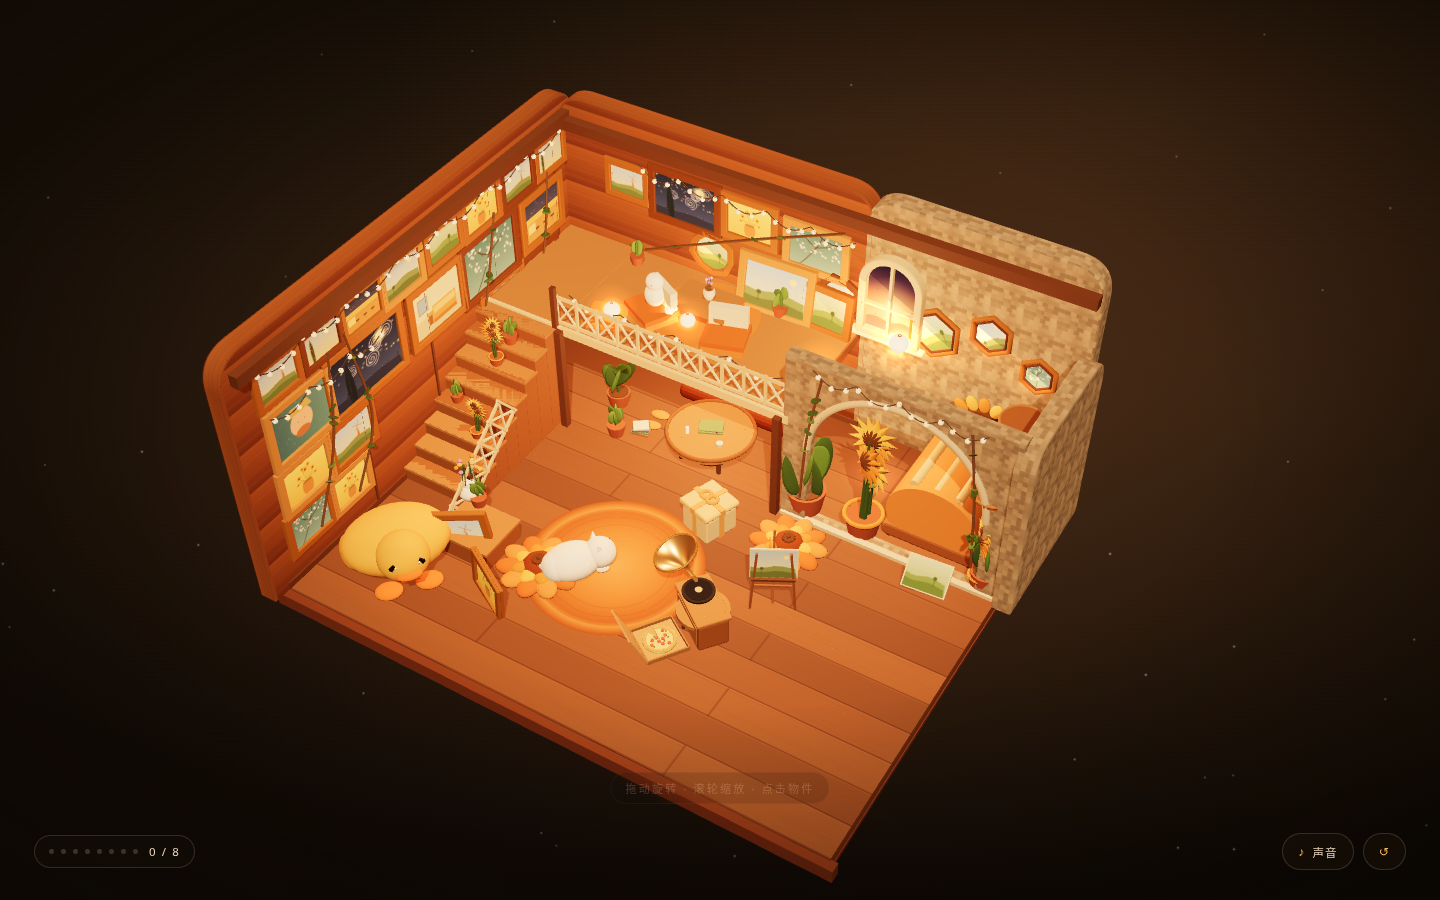
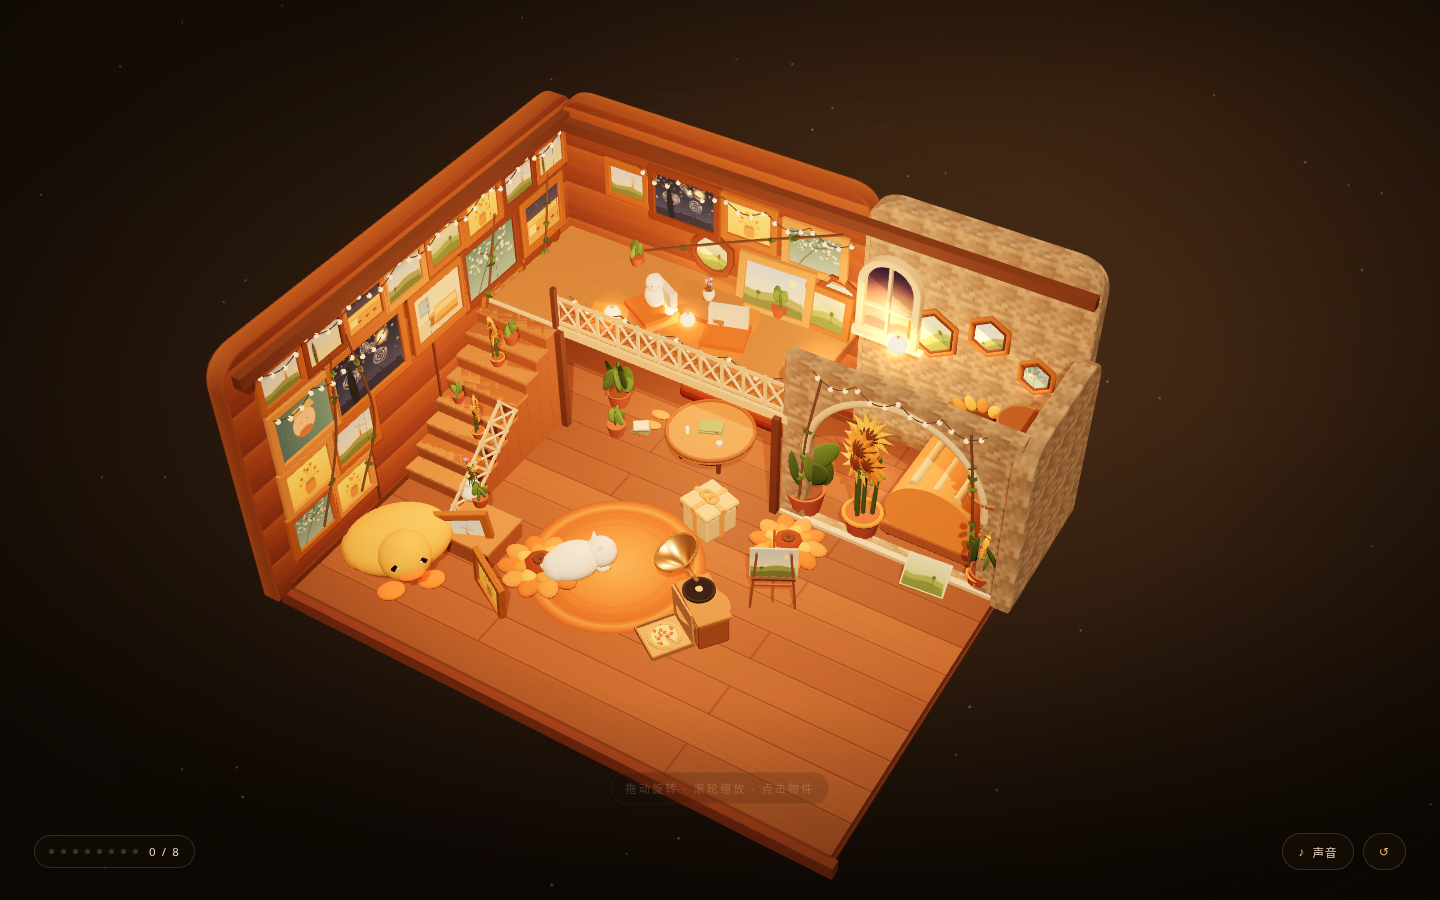
披萨盒开盖改为背靠留声机（转向+贴紧边几+盖子立起倚住机身）

diff --git a/app.js b/app.js
@@ -2149,17 +2149,17 @@
       g.add(bas);
     }
 
-    // 开盖（绕后缘铰链向后翻开）
+    // 开盖（绕后缘铰链向后翻开，立起倚在留声机边几上）
     var hinge = new T.Group();
     hinge.position.set(0, 0.06, -0.4);
     var lid = new T.Mesh(new T.BoxGeometry(0.82, 0.035, 0.8), card);
     lid.position.set(0, 0, 0.4);
     hinge.add(lid);
-    hinge.rotation.x = -1.98;
+    hinge.rotation.x = -1.52;
     g.add(hinge);
 
-    g.position.set(1.02, 0, 2.52);
-    g.rotation.y = 2.55;
+    g.position.set(1.05, 0, 2.42);
+    g.rotation.y = -0.59;
     g.scale.setScalar(1.12);
     shadowAll(g);
     room.add(g);
